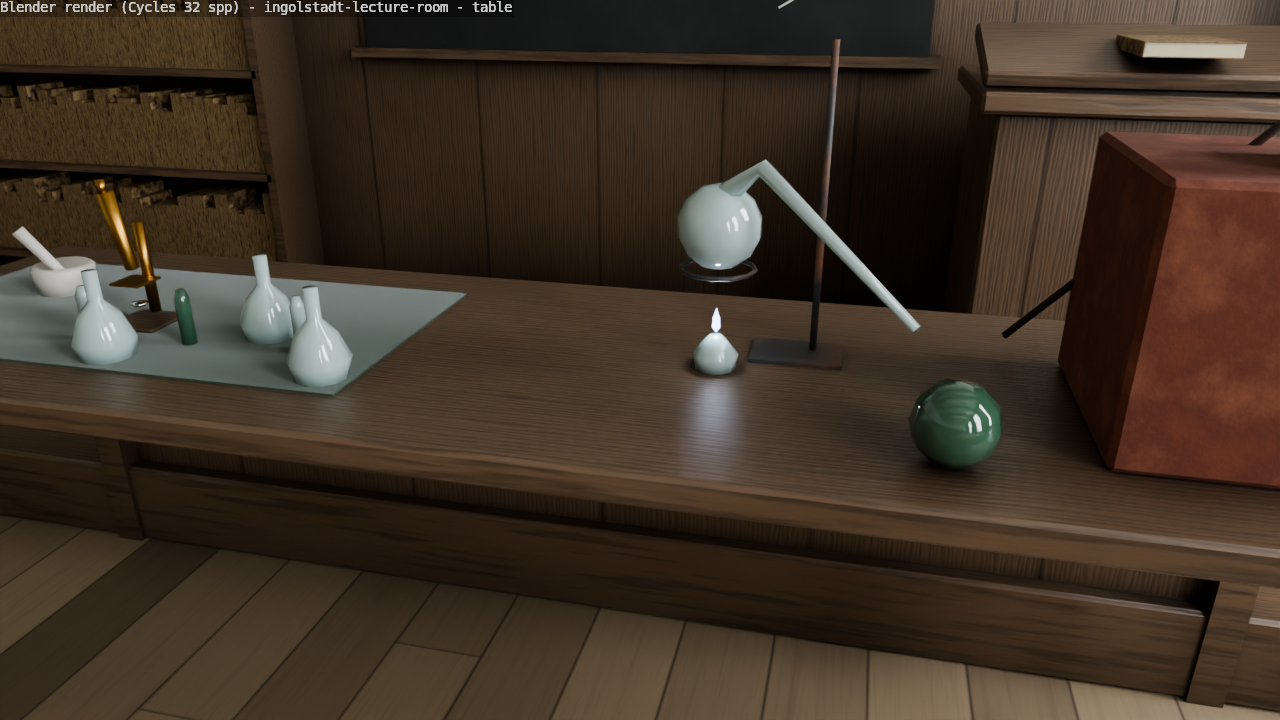
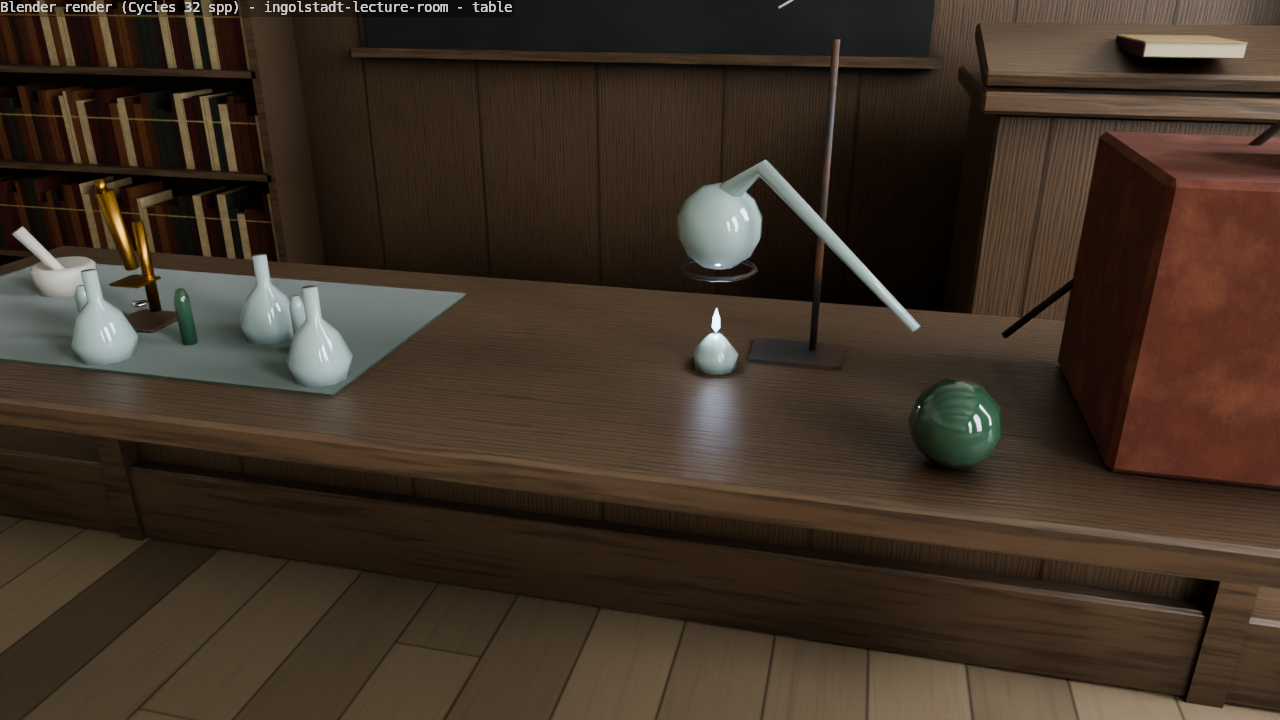
Scene room ingolstadt-lecture-room (frankenstein c07): leather bindings on the shelves, matt chapter-card view
Each book on the shelves gets its own calf, sheep or vellum colour with gilt bands (they were one tan pattern);
metals export as darkened matt colours; the baked .blend the runtime bake renders the chapter card from is matt like
the headset. Re-baked and re-published. Triangles 13736, indoor; sound room-tone:0.4+fire:0.15+clock:0.15.

Changed region(s): [[0.0, 0.0, 0.2188, 0.3667], [0.875, 0.0306, 0.9688, 0.0917]]

diff --git a/blender/build_ingolstadt_lecture_room.py b/blender/build_ingolstadt_lecture_room.py
@@ -68,7 +68,26 @@ M_SLATE = noisy("M_Blackboard", [K.srgb((0.07, 0.08, 0.08)), K.srgb((0.11, 0.12,
 M_CHALK = plain("M_Chalk", K.srgb((0.80, 0.80, 0.76)), rough=0.9)
 M_TILE = noisy("M_StoveTiles", [K.srgb((0.20, 0.34, 0.24)), K.srgb((0.28, 0.44, 0.32)), K.srgb((0.16, 0.28, 0.20))], scale=6, rough=0.2, bump=0.3, coat=0.4)
 M_PAGES = noisy("M_BookPages", [K.srgb((0.80, 0.76, 0.64)), K.srgb((0.72, 0.68, 0.56))], scale=200, rough=0.85, stretch=(1, 1, 30), bump=0.0)
-M_SPINES = noisy("M_BookSpines", [K.srgb((0.36, 0.20, 0.11)), K.srgb((0.20, 0.12, 0.07)), K.srgb((0.62, 0.52, 0.36)), K.srgb((0.30, 0.10, 0.07))], scale=30, rough=0.6, stretch=(30, 1, 1), bump=0.2)
+def spines_mat(name="M_BookSpines"):
+    """calf, sheep and vellum bindings: each book (a 4-6 cm slice along the shelf) its own leather, darker at the head and
+    tail bands, with a gilt band or two."""
+    m, nt, b = new_mat(name)
+    co = obj_coords(nt); s = sep_xyz(nt, co, (-1500, 0))
+    cell = math_(nt, 'FLOOR', math_(nt, 'DIVIDE', s.outputs["X"], 0.045, (-1300, 100)), None, (-1200, 100))
+    cc = node(nt, "ShaderNodeCombineXYZ", (-1100, 100)); nt.links.new(cell, cc.inputs["X"]); nt.links.new(math_(nt, 'FLOOR', s.outputs["Y"], None, (-1300, 250)), cc.inputs["Y"])
+    wn = node(nt, "ShaderNodeTexWhiteNoise", (-950, 100), noise_dimensions='3D'); nt.links.new(cc.outputs[0], wn.inputs["Vector"])
+    pal = ramp(nt, [(0.0, c4(K.srgb((0.30, 0.15, 0.08)))), (0.2, c4(K.srgb((0.18, 0.10, 0.06)))), (0.4, c4(K.srgb((0.42, 0.26, 0.14)))), (0.55, c4(K.srgb((0.72, 0.64, 0.48)))),
+                    (0.7, c4(K.srgb((0.26, 0.08, 0.06)))), (0.85, c4(K.srgb((0.14, 0.16, 0.12)))), (1.0, c4(K.srgb((0.36, 0.22, 0.12))))], (-750, 100), interp='CONSTANT')
+    nt.links.new(wn.outputs["Value"], pal.inputs["Fac"])
+    fz = math_(nt, 'FRACT', math_(nt, 'DIVIDE', s.outputs["Z"], 0.45, (-1300, -200)), None, (-1200, -200))
+    band = maprange(nt, math_(nt, 'ABSOLUTE', math_(nt, 'SUBTRACT', fz, 0.22, (-1100, -200)), None, (-1000, -200)), 0.0, 0.012, 1, 0, (-900, -200))
+    col = mix_rgb(nt, 'MIX', math_(nt, 'MULTIPLY', band, 0.8, (-800, -200)), pal.outputs["Color"], (0.55, 0.42, 0.18, 1), (-500, 0))
+    n = noise_(nt, co, 40.0, 4, 0.6, loc=(-900, -400))
+    col = mix_rgb(nt, 'MULTIPLY', 1.0, col, maprange(nt, n.outputs["Fac"], 0.3, 0.7, 0.8, 1.1, (-700, -400)), (-350, 0))
+    col = K.ao_mul(nt, col, 0.05, 0.5, (-250, -400))
+    nt.links.new(col, b.inputs["Base Color"]); b.inputs["Roughness"].default_value = 0.6
+    return m
+M_SPINES = spines_mat()
 M_JARS = noisy("M_SpecimenJars", [K.srgb((0.52, 0.56, 0.50)), K.srgb((0.40, 0.46, 0.40)), K.srgb((0.62, 0.58, 0.46))], scale=12, rough=0.1, coat=0.6)
 M_MINERAL = noisy("M_Minerals", [K.srgb((0.52, 0.42, 0.30)), K.srgb((0.30, 0.32, 0.36)), K.srgb((0.62, 0.52, 0.40)), K.srgb((0.20, 0.18, 0.18))], scale=40, rough=0.6, bump=0.5)
 M_CLOTH = noisy("M_GreenBaize", [K.srgb((0.14, 0.24, 0.16)), K.srgb((0.18, 0.28, 0.20))], scale=80, rough=0.95, sheen=0.5)
